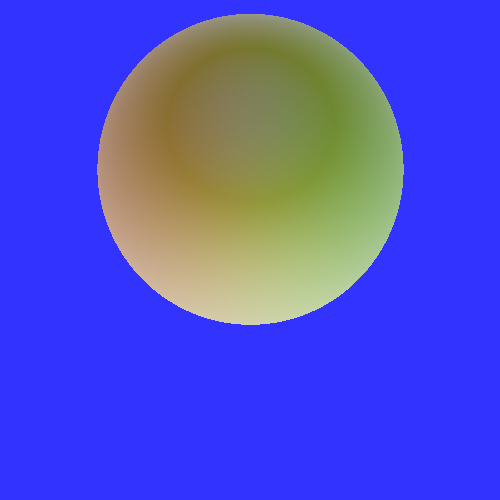
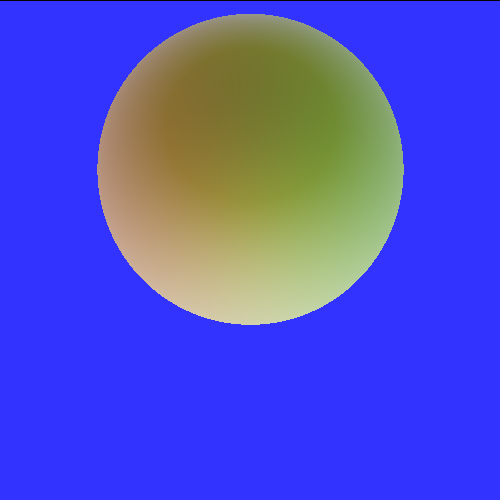
Progress

Changed region(s): [[0.39, 0.12, 0.63, 0.36]]

diff --git a/HW4/ray_tracer/util.py b/HW4/ray_tracer/util.py
@@ -77,5 +77,5 @@ class Sphere(object):
         else:
             return ray.getLocation(closestSol)
     def getNormalVector(self, v):
-        return (v - self.v).scale(-1).normalize()
+        return (v - self.v).normalize()
     
